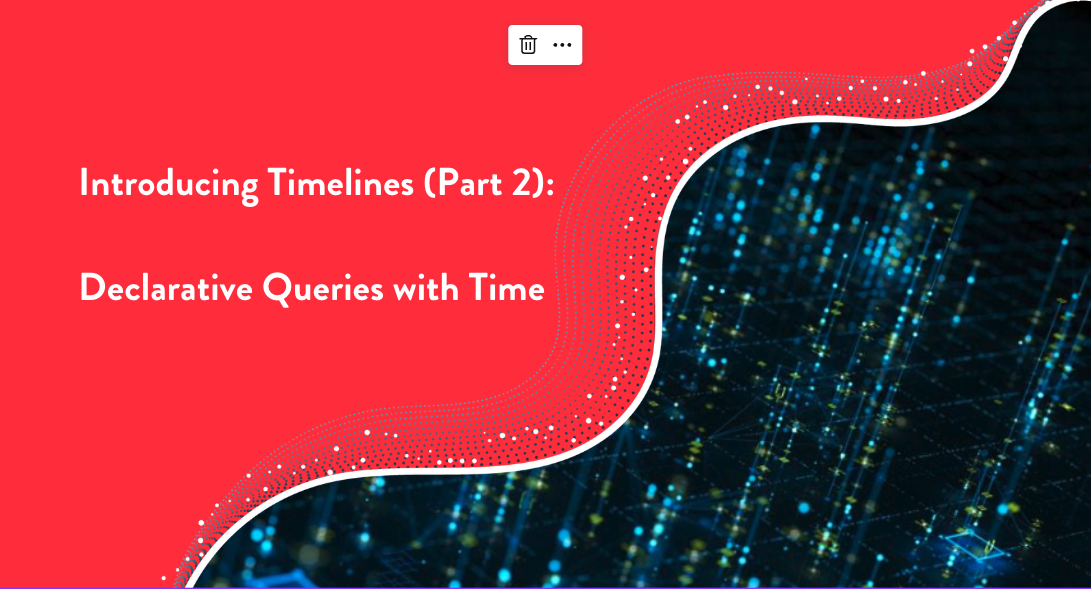
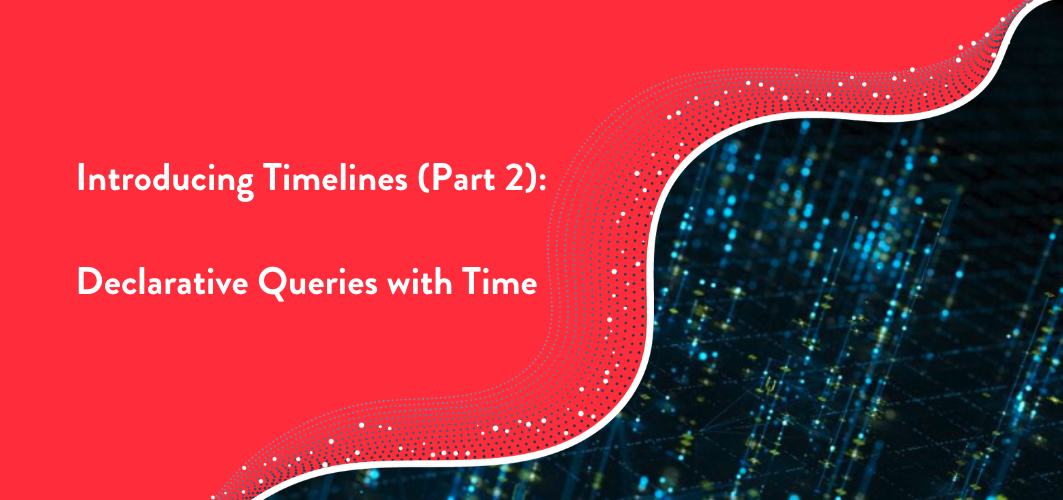
fix: Timeline posts
- Include `(Part <N>)` in the post title
- Fix the image for part 2

Changed region(s): [[0.0, 0.0, 1.0, 1.0], [0.4657, 0.03, 0.5588, 0.12]]

diff --git a/_posts/2023-05-09-introducing-timelines-part-1.md b/_posts/2023-05-09-introducing-timelines-part-1.md
@@ -1,6 +1,6 @@
 ---
 layout: post
-title: "Introducing Timelines: an Evolution in Stream Processing Abstraction"
+title: "Introducing Timelines (Part 1): an Evolution in Stream Processing Abstraction"
 image: assets/images/blog/introducing-timelines-part-1.png
 author: Ben Chambers and Therapon Skoteiniotis
 ---

diff --git a/_posts/2023-05-25-introducing-timelines-part-2.md b/_posts/2023-05-25-introducing-timelines-part-2.md
@@ -1,6 +1,6 @@
 ---
 layout: post
-title: "Introducing Timelines: Declarative, Temporal Queries"
+title: "Introducing Timelines (Part 2): Declarative, Temporal Queries"
 image: assets/images/blog/introducing-timelines-part-2.png
 author: Ben Chambers and Therapon Skoteiniotis
 featured: true
